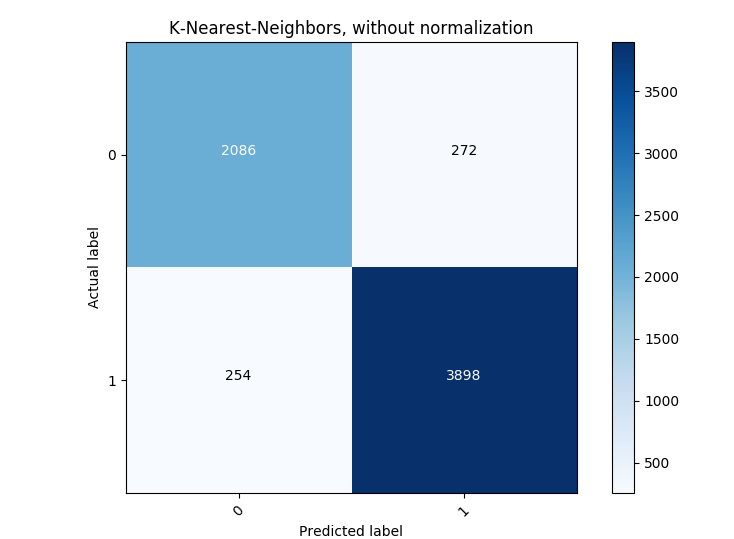
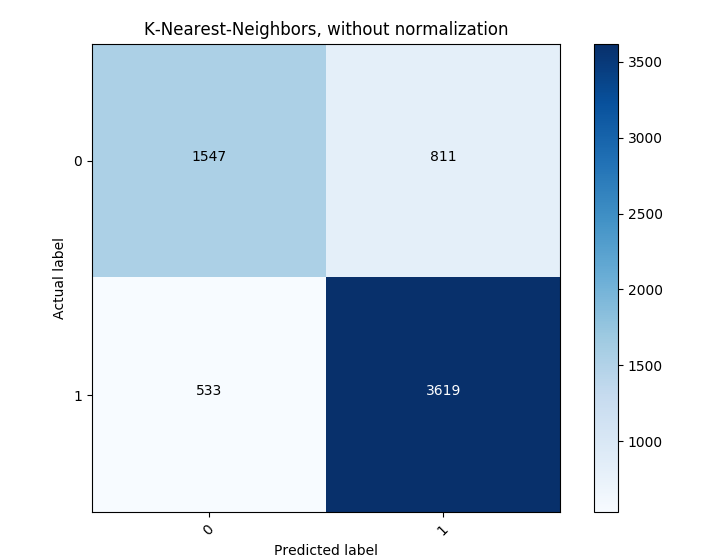
added in 3 new algorithms for comparison

diff --git a/phillips_assignment_4.py b/phillips_assignment_4.py
@@ -13,7 +13,11 @@ from sklearn.cross_validation import KFold;
 from sklearn.svm import SVC;
 from sklearn.ensemble import RandomForestClassifier as RF;
 from sklearn.neighbors import KNeighborsClassifier as KNN;
+from sklearn.naive_bayes import BernoulliNB as BNB; 
+from sklearn.naive_bayes import GaussianNB as GNB; 
+from sklearn.tree import DecisionTreeClassifier as DTC; 
 from sklearn.metrics import confusion_matrix;
+
 data_util_file = './util/data_util.py';
 import os;
 import sys;
@@ -83,13 +87,15 @@ target_result = data['Worker Type'];
 #Everything else (contractor) set it to 0
 y = np.where(target_result == 'AECOM Employee', 1, 0)
 
+#if I had anything additional to drop, i'd specify it here
+#but I get rid of most of this outside the working environment
+to_drop =[];
+data = data.drop(['Worker Type'], axis=1); 
+
 #transform using a label encoder
 data = pd.get_dummies(data, columns=util.cat_features(data));
-
-#if I had anything to drop, i'd specify it here
-#but I get rid of this outside the working environment
-to_drop =[]; 
-feature_space = data.drop(to_drop, axis=1);
+ 
+feature_space = data; 
 
 #remove feature space in case we need it later
 features = feature_space.columns;  
@@ -125,6 +131,13 @@ print("Random Forest:");
 print("%.4f" % util.accuracy(y, util.run_cv(X,y,RF))); 
 print("K-Nearest-Neighbors:"); 
 print("%.4f" % util.accuracy(y, util.run_cv(X,y,KNN))); 
+print("Naive Bayes Bernoulli:"); 
+print("%.4f" % util.accuracy(y, util.run_cv(X,y,BNB)));
+print("Naive Bayes Gaussian:"); 
+print("%.4f" % util.accuracy(y, util.run_cv(X,y,GNB)));
+print("Decision Tree (Gini Impurity):"); 
+print("%.4f" % util.accuracy(y, util.run_cv(X,y,DTC)));
+
 
 # ------------------------------------- #
 # --- Section 5: Confusion Matrices --- #
@@ -137,6 +150,9 @@ np.set_printoptions(precision=2)
 confusion_matrix_SVC = confusion_matrix(y, util.run_cv(X,y,SVC)); 
 confusion_matrix_RF = confusion_matrix(y, util.run_cv(X,y,RF)); 
 confusion_matrix_KNN = confusion_matrix(y, util.run_cv(X,y,KNN)); 
+confusion_matrix_BNB = confusion_matrix(y, util.run_cv(X,y,BNB)); 
+confusion_matrix_GNB = confusion_matrix(y, util.run_cv(X,y,GNB)); 
+confusion_matrix_DTC = confusion_matrix(y, util.run_cv(X,y,DTC)); 
 
 plt.figure()
 util.plot_confusion_matrix(confusion_matrix_SVC, classes=class_names,
@@ -147,18 +163,17 @@ util.plot_confusion_matrix(confusion_matrix_RF, classes=class_names,
 plt.figure()
 util.plot_confusion_matrix(confusion_matrix_KNN, classes=class_names,
                       title='K-Nearest-Neighbors, without normalization')
+plt.figure()
+util.plot_confusion_matrix(confusion_matrix_BNB, classes=class_names,
+                      title='Naive Bayes Bernoulli, without normalization')
+plt.figure()
+util.plot_confusion_matrix(confusion_matrix_GNB, classes=class_names,
+                      title='Naive Bayes Gaussian, without normalization')
+plt.figure()
+util.plot_confusion_matrix(confusion_matrix_DTC, classes=class_names,
+                      title='Decision Tree (Gini Impurity), without normalization')
 
-plt.figure()
-util.plot_confusion_matrix(confusion_matrix_SVC, classes=class_names, normalize=True,
-                      title='Support Vector Machine, with normalization')
-plt.figure()
-util.plot_confusion_matrix(confusion_matrix_RF, classes=class_names, normalize=True,
-                      title='Random Forest, with normalization')
-plt.figure()
-util.plot_confusion_matrix(confusion_matrix_KNN, classes=class_names, normalize=True,
-                      title='K-Nearest-Neighbors, with normalization')
-
-#plt.show()
+plt.show()
 
 # -------------------------------- #
 # --- Section 6: Probabilities --- #

diff --git a/README.md b/README.md
@@ -128,7 +128,7 @@ Date:   11.12.2017
 + From a terminal, use the command (substitute pip for the package manager you use): 
 
 ```unix
-	sudo pip install xlrd
+sudo pip install xlrd
 ```
 
 + Then within your Python code:
@@ -215,7 +215,13 @@ y = np.where(target_result == 'AECOM Employee', 1, 0)
 
 + This yields a response variable ('Worker Type'), that is either 'true' [1] for an AECOM Employee, or is 'false' [0] for a Contractor. 
 
-+ Next, we need to get rid of the text values. This part might not be apparent at first, but its crucial to performing the analysis. Ergo, we need a label encoder, or something that can take a column, find all the different text values / categories in it, then encoded it properly. 
++ Remove the column ```Worker Type``` from the feature space. 
+
+```python
+data = data.drop(['Worker Type'], axis=1); 
+```
+
++ Next, we need to get rid of the text values. This part might not be apparent at first, but its crucial to performing the analysis. Ergo, we need a label encoder, or something that can take a column, find all the different text values / categories in it, then encode it properly. 
 
 + To accomplish this, we'll use pandas ```get_dummies()``` method, coupled with a utility label encoder borrowed from <a href=https://github.com/chrisgarcia001>Chris Garcia, PhD</a>. The ```get_dummies()``` method converts categorical values into "dummy", or indicator variables, while the ```cat_features()``` function returns a list of the categorical features for a given dataframe. They work hand in hand to get rid of the text and leave us with a nice, clean, numerical data frame. 
 
@@ -224,7 +230,7 @@ data = pd.get_dummies(data, columns=util.cat_features(data));
 
 ```
 
-+ For good measure, I pull out the feature space for future use. 
++ For good measure, I pull out the feature space for future use. I might not use them, but it's good to save it just in case I need to reference what they are later on. 
 
 ```python
 features = feature_space.columns;  
@@ -294,7 +300,7 @@ print("Number of Response Types:", np.unique(y));
 
 ```python
 '''
-Feature space contains 6510 records and 66 columns
+Feature space contains 6510 records and 64 columns
 ('Number of Response Types:', array([0, 1]))
 '''
 
@@ -304,17 +310,18 @@ Feature space contains 6510 records and 66 columns
 
 	+ Our feature space contains the correct amount of records, and after we label encoded all the text, it has the correct amount of columns as well. 
 
-		+ Worker Type x 1
 		+ Incident Type x 9
 		+ Month x 12
 		+ Potential Severity x 5
 		+ Potential Probability x 5
 		+ Business Group x 8
-		+ Business Line x 26
+		+ Business Line x 25
 
 	+ And our response variable, has the correct types we encoded earlier (either a 1 or a 0)
 
 + Now that we've cleaned up the data, transformed it, and given a few sanity checks, we can rest easy knowing that our data is ready to be processed. Now we can move onto making the predictions. 
+
+	> It's extremely good practice to perform these sanity checks along the way. Every time you move data; slice it up; or transform it; it's good to make sure that the machine is producing the results you expect. 
 
 <hr>
 
@@ -331,6 +338,12 @@ print("Random Forest:");
 print("%.4f" % util.accuracy(y, util.run_cv(X,y,RF))); 
 print("K-Nearest-Neighbors:"); 
 print("%.4f" % util.accuracy(y, util.run_cv(X,y,KNN))); 
+print("Naive Bayes Bernoulli:"); 
+print("%.4f" % util.accuracy(y, util.run_cv(X,y,BNB)));
+print("Naive Bayes Gaussian:"); 
+print("%.4f" % util.accuracy(y, util.run_cv(X,y,GNB)));
+print("Decision Tree (Gini Impurity):"); 
+print("%.4f" % util.accuracy(y, util.run_cv(X,y,DTC)));  
 
 ```
 
@@ -370,15 +383,21 @@ for train_index, test_index in kf:
 ```python
 '''
 Support Vector Machine:
-0.9962
+0.8452
 Random Forest:
-1.0000
+0.8226
 K-Nearest-Neighbors:
-0.9214
+0.7965
+Naive Bayes Bernoulli:
+0.7591
+Naive Bayes Gaussian:
+0.4249
+Decision Tree (Gini Impurity):
+0.8020
 '''
 ```
 
-+ Each algorithm performs outstanding, at least using <b>accuracy</b> as the error metric, but we can't always rely on a measurement to explain whether or not a model is good or bad. Models don't always spit out high performance measures when they're good, and they won't always spit out low numbers when they are bad. It's simply not that black and white. If it were, models would simply be akin to algebraic formulas; you'd plug your data in, let the model cogitate, then wait for it to spit you out a number (fingers crossed that it's a high number). 
++ Each algorithm performs rather well, with the exception of the Gaussian Naive Bayes algorithm - which shouldn't come as too much of a shock. This, however, is just using <b>accuracy</b> as the error metric - but we can't always rely on a measurement to explain whether or not a model is good or bad. Models don't always spit out high performance measures when they're good, and they won't always spit out low numbers when they are bad. It's simply not that black and white. If it were, models would simply be akin to algebraic formulas; you'd plug your data in, let the model cogitate, then wait for it to spit you out a number (fingers crossed that it's a high number). 
 
 + Instead, error metrics give you a good indication that you've built a model that's solid, and can be put to use. It's still the job of the scientist to verify that the model is actually valid. 
 
@@ -388,7 +407,7 @@ K-Nearest-Neighbors:
 
 + Plus we can't forget the old adage <i>garbage in, garbage out</i>. Our model is only ever going to perform as well as the data it's fed. 
 
-> Random forest looks to hands-down be the winner, but let's make sure. In the Safety realm, there's no room for error. 
+	> Support Vector Machine looks to be our winner , but let's make sure. In the Safety realm, there's no room for error. 
 
 <hr>
 
@@ -408,6 +427,12 @@ K-Nearest-Neighbors:
 
 <img src="./fig/SVMconfmatrix.png" title="SVM Conf Matrix" alt="SVM Conf Matrix" style="display: block; margin: auto;" />
 
+<img src="./fig/BNBconfmatrix.png" title="BNB Conf Matrix" alt="BNB Conf Matrix" style="display: block; margin: auto;" />
+
+<img src="./fig/GNBconfmatrix.png" title="GNB Conf Matrix" alt="GNB Conf Matrix" style="display: block; margin: auto;" />
+
+<img src="./fig/DTCconfmatrix.png" title="DTC Conf Matrix" alt="DTC Conf Matrix" style="display: block; margin: auto;" />
+
 > Again, it's good to go back and really think about the question we're asking. This helps us to determine what error metrics we should really be focused on. 
 
 + Here, a good question to ask is: 
@@ -421,8 +446,11 @@ Algorithm | Total Relevant Instances | Relevant Instances | Recall Score
 K-Nearest-Neighbors | 4152 | 3898 | 0.938
 Random Forest | 4142 | 4152 | 1.000
 Support Vector Machine | 4152 | 4150 |0.999
+Naive Bayes Bernoulli | | |
+Naive Bayes Gaussian | | |
+Decision Tree (Gini Impurity) | | |
 
-+ Again, Random Forest is in the lead. Each time a record is attributed to an AECOM Employee, it correctly predicts that. 
++ Insert winner here. 
 
 + An equally important question to ask is:
 
@@ -435,16 +463,22 @@ Algorithm | Retrieved Instances | Relevant Instances | Precision Score
 K-Nearest-Neighbors | 4170 | 3898 | 0.934
 Random Forest | 4152 | 4152 | 1.000
 Support Vector Machine | 4170 | 4150 |0.995
+Naive Bayes Bernoulli | | |
+Naive Bayes Gaussian | | |
+Decision Tree (Gini Impurity) | | |
 
-+ Again, Random Forest for the win. Each time it predicts a record is associated with an AECOM Employee, that's actually the case. 
++ Insert winner here. 
 
 + To sum up our analysis to this point:
 
 Algorithm | Accuracy (Rank) | Recall (Rank) | Precision (Rank)
 --- | :---: | :---: | :---:
-Random Forest | First | First | First
-Support Vector Machine | Second | Second |Second
-K-Nearest-Neighbors | Third | Third | Third
+Random Forest |  |  | 
+Support Vector Machine |  |  |
+K-Nearest-Neighbors |  |  | 
+Naive Bayes Bernoulli | | |
+Naive Bayes Gaussian | | |
+Decision Tree (Gini Impurity) | | |
 
 <hr>
 
